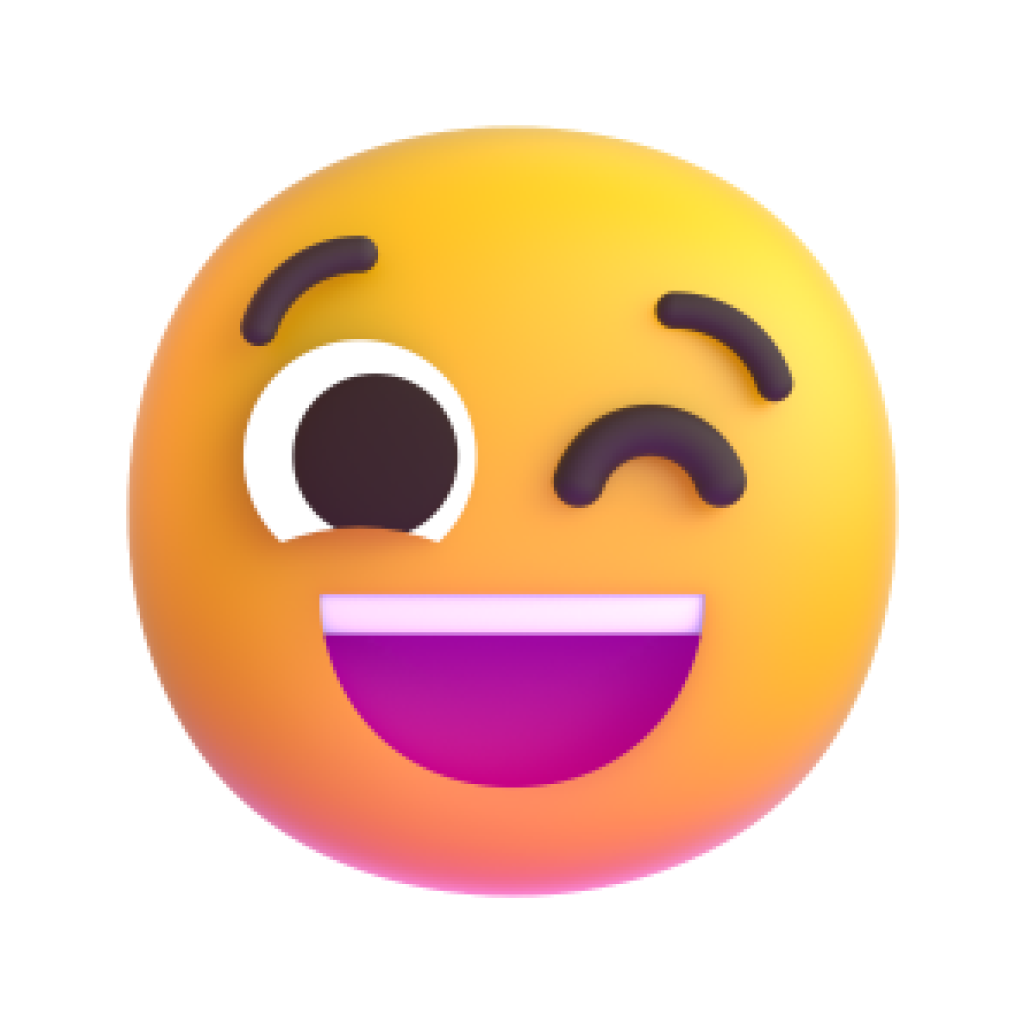
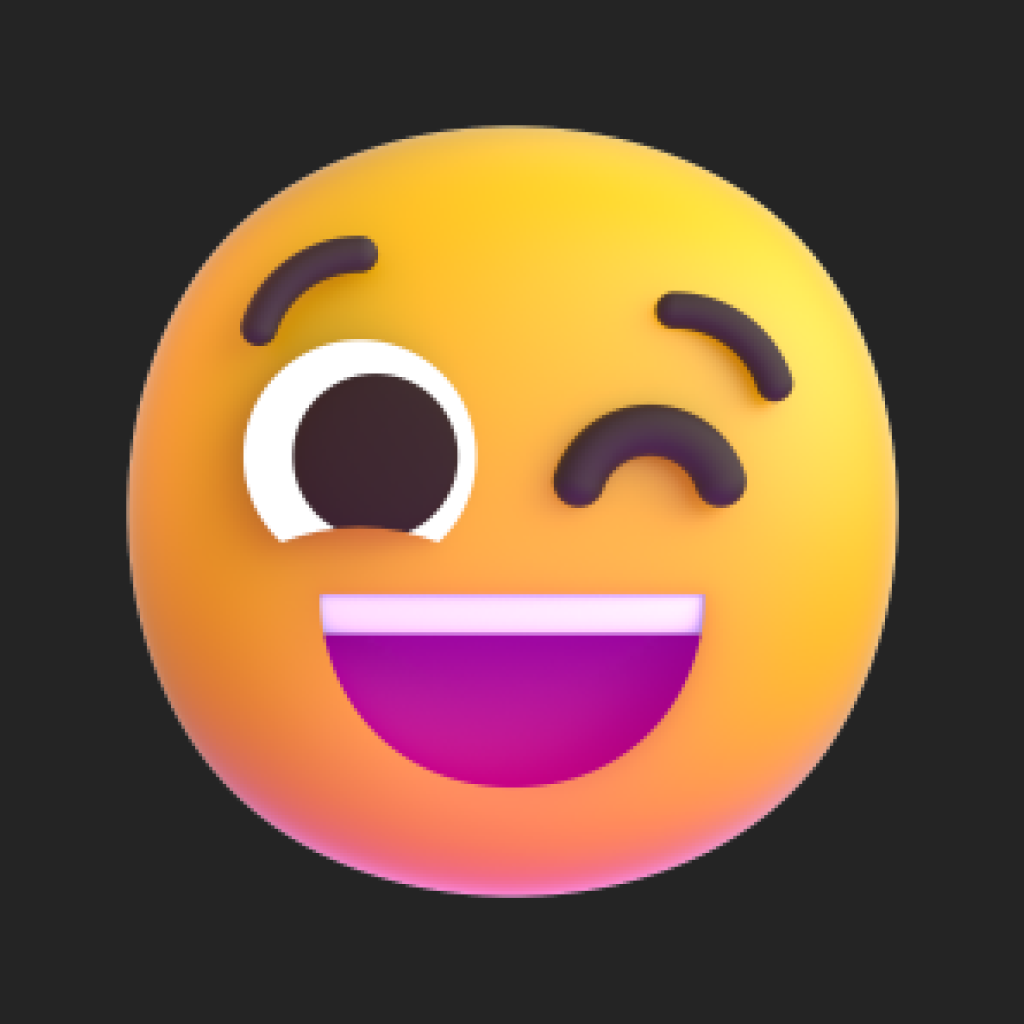
feat: add github button

diff --git a/sources/app/routes/(auth)/index.tsx b/sources/app/routes/(auth)/index.tsx
@@ -6,7 +6,7 @@ import { useAsyncCommand } from '@/utils/useAsyncCommand';
 import { useLayout } from '@/utils/useLayout';
 import { Stack, router } from 'expo-router';
 import * as React from 'react';
-import { Image, Platform, Text, View } from 'react-native';
+import { ActivityIndicator, Image, Platform, Pressable, Text, View } from 'react-native';
 import { useSafeAreaInsets } from 'react-native-safe-area-context';
 import * as WebBrowser from 'expo-web-browser';
 
@@ -14,15 +14,19 @@ export default function Splash() {
     const safeArea = useSafeAreaInsets();
     const layout = useLayout();
     const [starting, doStart] = useAsyncCommand(async () => {
+
+        // Fetch auth parameters
         const { url, callback } = await requestAuth();
-        let output = await WebBrowser.openAuthSessionAsync(url, callback);
-        console.warn(output);
-        // if (Platform.OS === 'web') {
-        //     await WebBrowser.openAuthSessionAsync(url, callback);
-        //     // window.location.href = url;
-        // } else {
-        //     // Linki.openURL(url);
-        // }
+
+        // Open auth url
+        if (Platform.OS === 'web') {
+            window.location.href = url;
+        } else {
+            let output = await WebBrowser.openAuthSessionAsync(url, callback);
+            if (output.type === 'success') {
+                console.warn(output);
+            }
+        }
     });
     return (
         <>
@@ -60,6 +64,16 @@ export default function Splash() {
 
                 {Platform.OS === 'web' && (
                     <>
+                        <View style={{ flexDirection: 'row', height: 60, width: 360, marginBottom: 50, alignItems: 'center', justifyContent: 'center' }}>
+                            {starting && (
+                                <ActivityIndicator color={"white"} />
+                            )}
+                            {!starting && (
+                                <Pressable onPress={doStart}>
+                                    <Image source={require('@/app/assets/github.png')} style={{ width: 360, height: 60 }} />
+                                </Pressable>
+                            )}
+                        </View>
                         <View style={{ flexDirection: 'row', gap: 8, marginBottom: 32, width: 180 /*180 * 2 + 8*/ }}>
                             {/* <a href="https://play.google.com/store/apps/details?id=org.botmate.android">
                                 <img
@@ -83,11 +97,19 @@ export default function Splash() {
                                 />
                             </a>
                         </View>
-                        <RoundButton display="inverted" title={'Login with GitHub'} style={{ width: 300, marginBottom: 16 }} onPress={doStart} loading={starting} />
                     </>
                 )}
                 {Platform.OS !== 'web' && (
-                    <RoundButton display="default" title={'Login with GitHub'} style={{ width: 300, marginBottom: 16 }} onPress={doStart} loading={starting} />
+                    <View style={{ flexDirection: 'row', gap: 8, height: 50, width: 288, marginBottom: 32, alignItems: 'center', justifyContent: 'center' }}>
+                        {starting && (
+                            <ActivityIndicator color={"white"} />
+                        )}
+                        {!starting && (
+                            <Pressable onPress={doStart}>
+                                <Image source={require('@/app/assets/github.png')} style={{ width: 320, height: 55 }} resizeMode='contain' />
+                            </Pressable>
+                        )}
+                    </View>
                 )}
                 {(layout === 'large' || Platform.OS === 'web') && (
                     <View style={{ flexGrow: 1 }} />

diff --git a/app.config.js b/app.config.js
@@ -51,7 +51,7 @@ export default {
       "backgroundColor": "#121212",
       "adaptiveIcon": {
         "foregroundImage": "./assets/adaptive-icon.png",
-        "backgroundColor": "#000"
+        "backgroundColor": "#242424"
       },
       "package": "com.gitchats.android",
       "intentFilters": [
